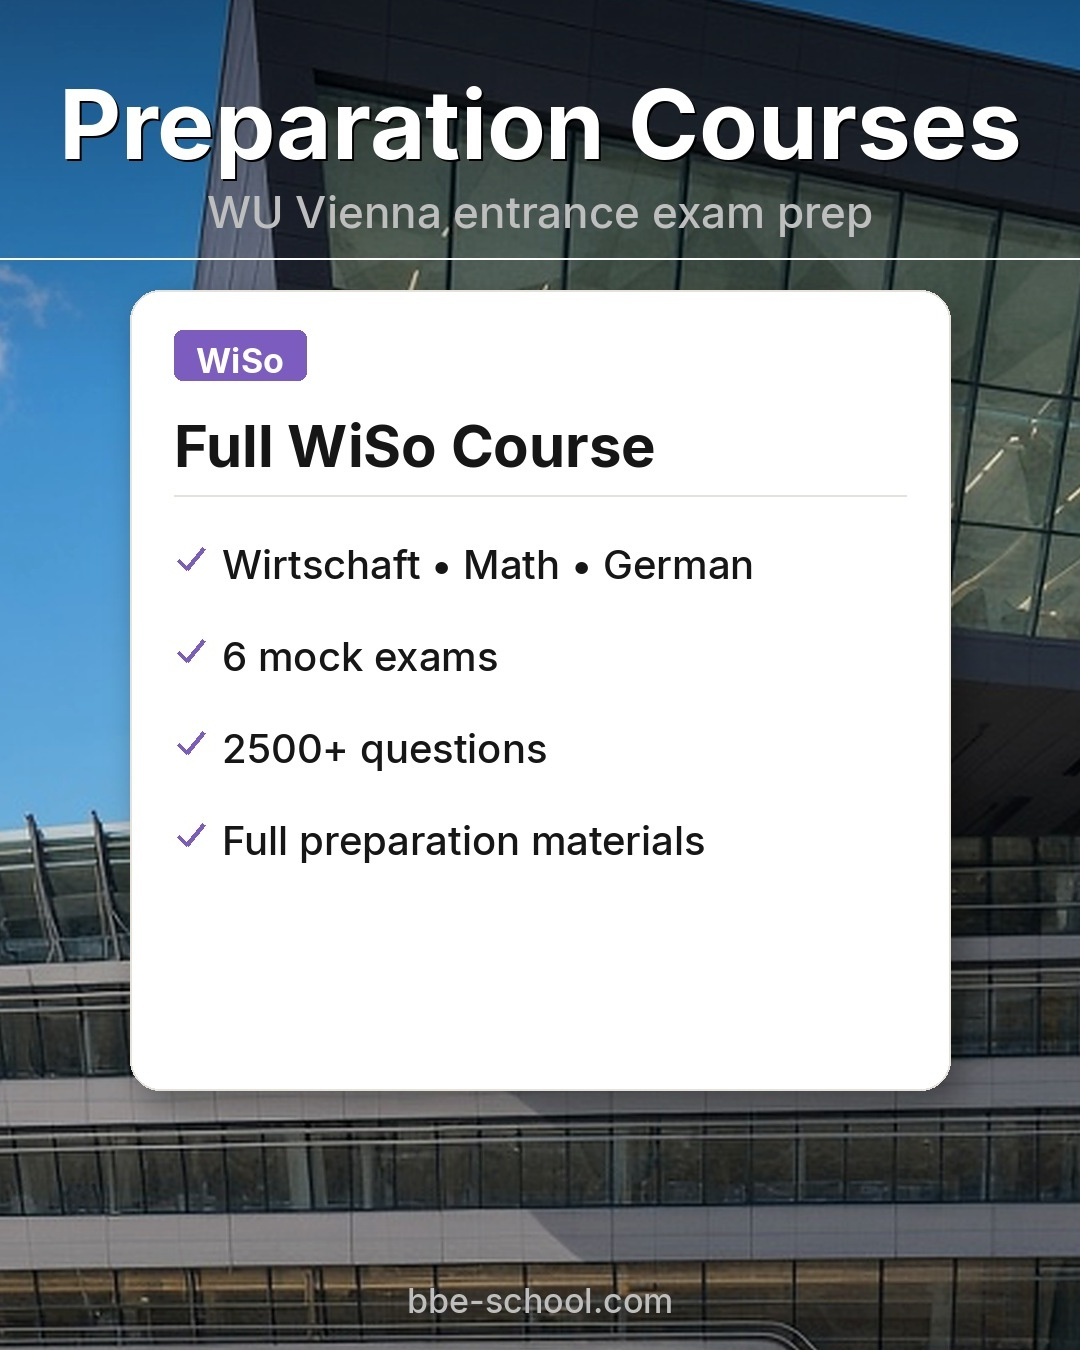
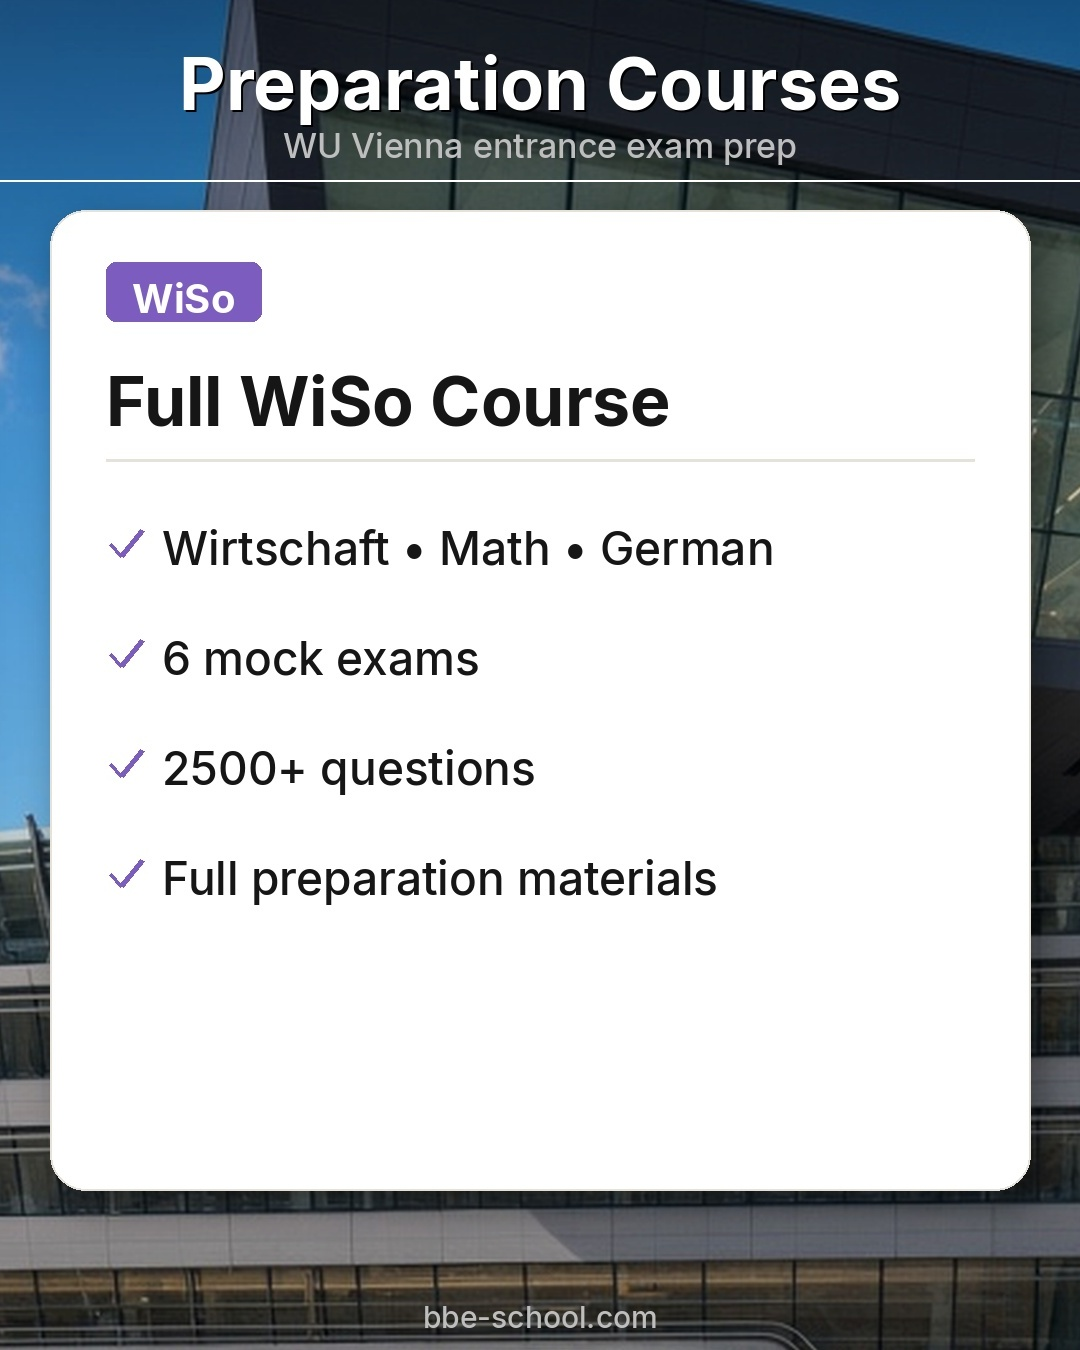
Enlarge course cards so they dominate each Instagram tile.
Cards are ~980×980 inside 1080×1350 posts with larger type and a
more compact header, keeping the daytime LLC background.

diff --git a/scripts/make_instagram_pinned_banner.py b/scripts/make_instagram_pinned_banner.py
@@ -164,7 +164,7 @@ def draw_logo(draw: ImageDraw.ImageDraw, x: int, y: int, size: int = 100, light:
 
 
 def draw_check(draw: ImageDraw.ImageDraw, x: int, y: int, color: tuple[int, int, int]) -> None:
-    draw.line([(x, y + 12), (x + 9, y + 21), (x + 26, y)], fill=color, width=4)
+    draw.line([(x, y + 14), (x + 11, y + 26), (x + 32, y)], fill=color, width=5)
 
 
 def draw_card(
@@ -176,28 +176,29 @@ def draw_card(
     accent: tuple[int, int, int],
     title: str,
     bullets: list[str],
-    width: int = 820,
-    height: int = 780,
+    width: int = 980,
+    height: int = 980,
     glass: bool = False,
 ) -> None:
     left = cx - width // 2
     layer = Image.new("RGBA", canvas.size, (0, 0, 0, 0))
     d = ImageDraw.Draw(layer)
+    radius = 36
 
     # shadow
     shadow = Image.new("RGBA", canvas.size, (0, 0, 0, 0))
     sd = ImageDraw.Draw(shadow)
     sd.rounded_rectangle(
-        [left + 10, top + 14, left + width + 10, top + height + 14],
-        radius=30,
-        fill=(0, 0, 0, 90),
+        [left + 12, top + 16, left + width + 12, top + height + 16],
+        radius=radius,
+        fill=(0, 0, 0, 100),
     )
-    canvas.alpha_composite(shadow.filter(ImageFilter.GaussianBlur(16)))
+    canvas.alpha_composite(shadow.filter(ImageFilter.GaussianBlur(18)))
 
     if glass:
         d.rounded_rectangle(
             [left, top, left + width, top + height],
-            radius=30,
+            radius=radius,
             fill=(18, 20, 24, 210),
             outline=(255, 255, 255, 40),
             width=2,
@@ -206,7 +207,7 @@ def draw_card(
     else:
         d.rounded_rectangle(
             [left, top, left + width, top + height],
-            radius=30,
+            radius=radius,
             fill=(*CARD, 255),
             outline=(*CARD_BORDER, 255),
             width=2,
@@ -216,63 +217,70 @@ def draw_card(
     canvas.alpha_composite(layer)
     draw = ImageDraw.Draw(canvas)
 
-    tag_f = font("Inter-Bold.ttf", 34)
+    pad = 56
+    tag_f = font("Inter-Bold.ttf", 40)
     tw, th = text_size(draw, tag, tag_f)
-    pad_x, pad_y = 22, 12
+    pad_x, pad_y = 26, 14
     tag_w, tag_h = tw + pad_x * 2, th + pad_y * 2
-    tag_x, tag_y = left + 44, top + 40
-    draw.rounded_rectangle([tag_x, tag_y, tag_x + tag_w, tag_y + tag_h], radius=8, fill=accent)
+    tag_x, tag_y = left + pad, top + 52
+    draw.rounded_rectangle([tag_x, tag_y, tag_x + tag_w, tag_y + tag_h], radius=10, fill=accent)
     draw.text((tag_x + pad_x, tag_y + pad_y - 2), tag, font=tag_f, fill=WHITE)
 
-    title_f = font("Inter-Bold.ttf", 58)
-    draw.text((left + 44, top + 120), title, font=title_f, fill=title_c)
-    draw.line([(left + 44, top + 205), (left + width - 44, top + 205)], fill=border_c, width=2)
+    title_f = font("Inter-Bold.ttf", 68)
+    draw.text((left + pad, top + 150), title, font=title_f, fill=title_c)
+    draw.line(
+        [(left + pad, top + 250), (left + width - pad, top + 250)],
+        fill=border_c,
+        width=3,
+    )
 
-    bullet_f = font("Inter-Medium.ttf", 40)
-    y = top + 250
+    bullet_f = font("Inter-Medium.ttf", 46)
+    y = top + 310
     for bullet in bullets:
-        draw_check(draw, left + 48, y + 8, accent)
-        draw.text((left + 92, y), bullet, font=bullet_f, fill=body_c)
-        y += 92
+        draw_check(draw, left + pad + 4, y + 10, accent)
+        draw.text((left + pad + 56, y), bullet, font=bullet_f, fill=body_c)
+        y += 110
 
 
 def build_banner(bg: Image.Image, *, glass_cards: bool = False) -> Image.Image:
     canvas = bg.convert("RGBA")
     draw = ImageDraw.Draw(canvas)
 
-    title_f = font("Inter-Bold.ttf", 96)
-    sub_f = font("Inter-Medium.ttf", 44)
+    # Compact header so cards dominate the frame
+    title_f = font("Inter-Bold.ttf", 72)
+    sub_f = font("Inter-Medium.ttf", 34)
     title = "Preparation Courses"
     tw, _ = text_size(draw, title, title_f)
-    # soft text shadow for readability
-    draw.text(((W - tw) / 2 + 2, 68), title, font=title_f, fill=(0, 0, 0, 160))
-    draw.text(((W - tw) / 2, 66), title, font=title_f, fill=WHITE)
+    draw.text(((W - tw) / 2 + 2, 42), title, font=title_f, fill=(0, 0, 0, 160))
+    draw.text(((W - tw) / 2, 40), title, font=title_f, fill=WHITE)
 
     sub = "WU Vienna entrance exam prep"
     sw, _ = text_size(draw, sub, sub_f)
-    draw.text(((W - sw) / 2, 185), sub, font=sub_f, fill=MUTED_LT)
-    draw.line([(120, 258), (W - 120, 258)], fill=(255, 255, 255, 55), width=2)
+    draw.text(((W - sw) / 2, 125), sub, font=sub_f, fill=MUTED_LT)
+    draw.line([(120, 180), (W - 120, 180)], fill=(255, 255, 255, 55), width=2)
 
-    draw_logo(draw, W - 48 - 100, 52, size=108, light=True)
+    draw_logo(draw, W - 40 - 88, 36, size=88, light=True)
 
+    # Large cards — main focus (~91% of each tile width, ~73% height)
     for i, card in enumerate(CARDS):
         cx = i * TILE_W + TILE_W // 2
         draw_card(
             canvas,
             cx=cx,
-            top=290,
+            top=210,
             tag=card["tag"],
             accent=card["accent"],
             title=card["title"],
             bullets=card["bullets"],
             glass=glass_cards,
-            height=800,
+            width=980,
+            height=980,
         )
 
-    url_f = font("Inter-Medium.ttf", 34)
+    url_f = font("Inter-Medium.ttf", 30)
     url = "bbe-school.com"
     uw, _ = text_size(draw, url, url_f)
-    draw.text(((W - uw) / 2, H - 70), url, font=url_f, fill=MUTED_LT)
+    draw.text(((W - uw) / 2, H - 52), url, font=url_f, fill=MUTED_LT)
     return canvas.convert("RGB")
 
 
